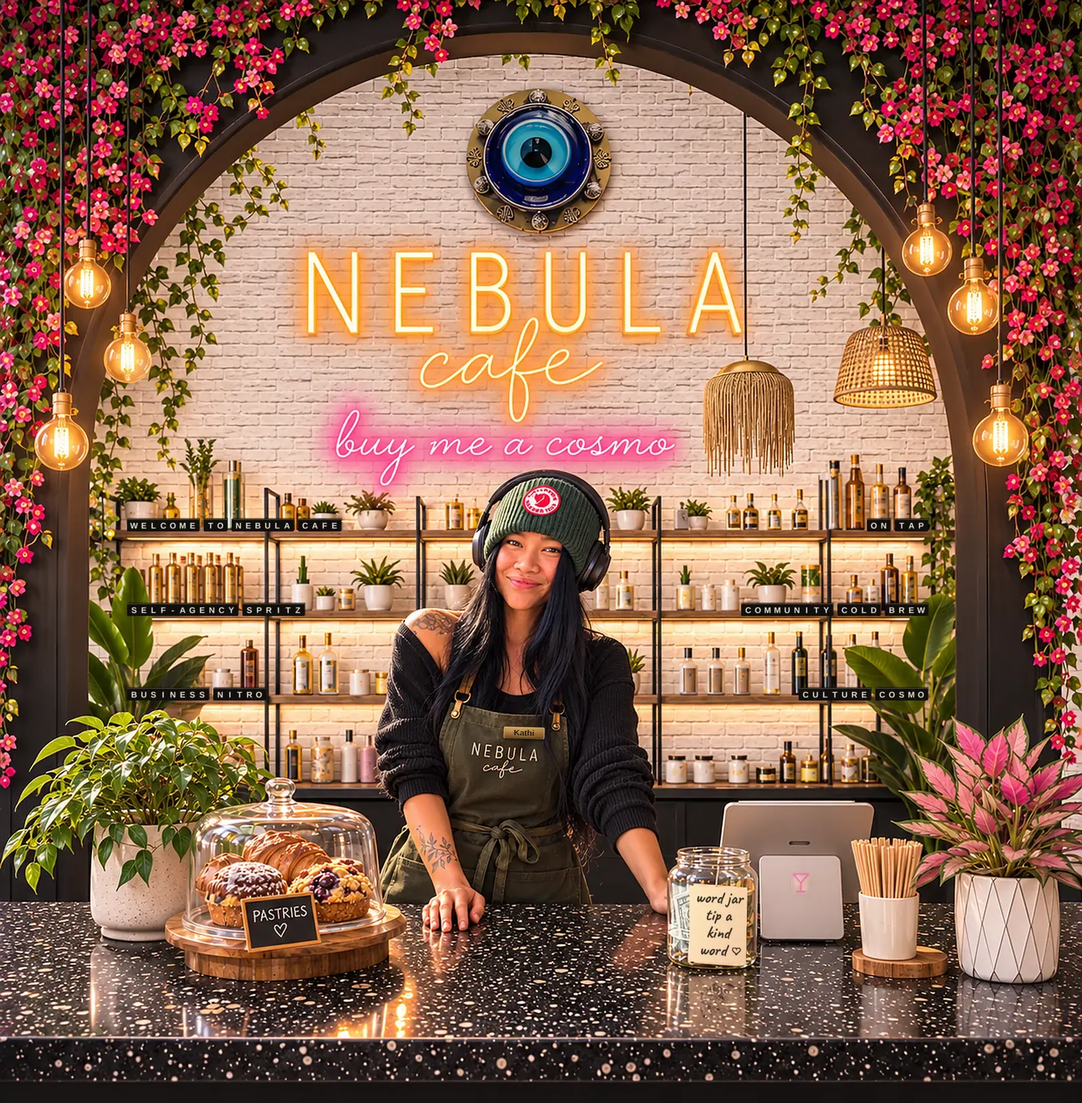
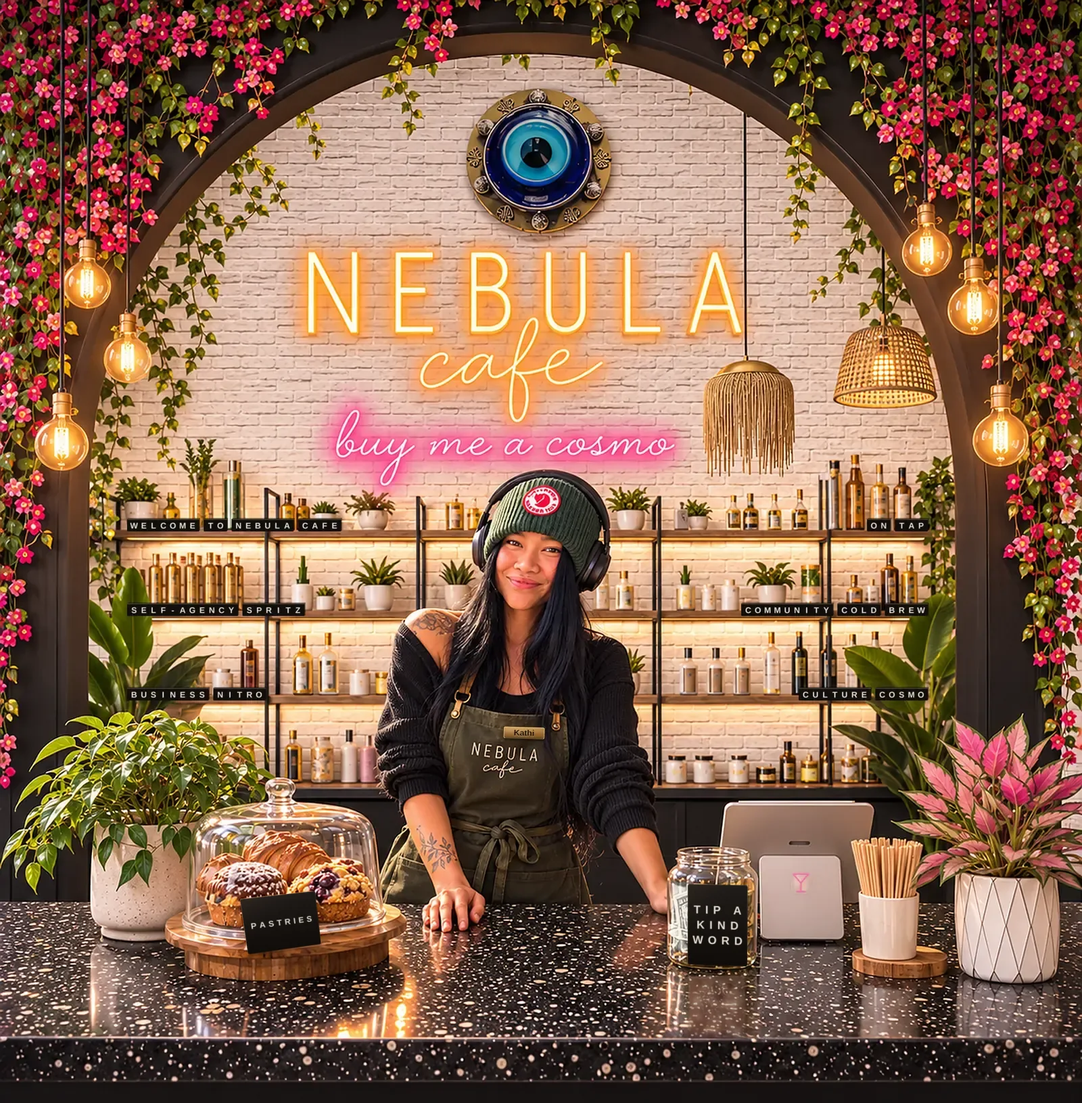
Nebula Cafe: black letter cards on the counter (PASTRIES, TIP A KIND WORD)
The chalkboard on the cake stand and the paper tag on the word jar now match the shelves' black letter cards. Repainted in all three café pictures (2400, 1600, phone) by the new tools/bar-cards.py; the jar tag keeps its old outline so the jar's strips still clip correctly, and the counter reflection was darkened to suit. Café picture description updated for screen readers.

Claude-Session: https://claude.ai/code/session_018yMsHqRgFK6Apb7SFisVkj

Changed region(s): [[0.625, 0.7975, 0.7188, 0.9509], [0.2188, 0.7975, 0.3125, 0.8896]]

diff --git a/post/cafe.html b/post/cafe.html
@@ -505,7 +505,7 @@ body.leaving::before { opacity: 1; }
       <picture>
         <source media="(max-aspect-ratio: 9/10)" data-srcset="../assets/img/post/room2/cafe-phone.webp">
         <source media="(max-width: 1500px)" data-srcset="../assets/img/post/room2/cafe-1600.webp">
-        <img data-src="../assets/img/post/room2/cafe-2400.webp" width="2486" height="2532" alt="Nebula Cafe through a black arch hung with pink flowering vines and Edison bulbs. Inside, white brick: an evil-eye charm, NEBULA cafe in amber neon, a pink neon that reads buy me a cosmo, iron and oak shelves of bottles and plants with letterboard words along their edges, and Kathi in a green beanie, headphones and a NEBULA cafe apron with a brass name tag that reads Kathi, leaning on the glittering black counter, smiling. On the counter: a potted plant, pastries under a glass dome, the word jar, a card reader with a pink cosmo glass on it, a cup of straws and a pink plant.">
+        <img data-src="../assets/img/post/room2/cafe-2400.webp" width="2486" height="2532" alt="Nebula Cafe through a black arch hung with pink flowering vines and Edison bulbs. Inside, white brick: an evil-eye charm, NEBULA cafe in amber neon, a pink neon that reads buy me a cosmo, iron and oak shelves of bottles and plants with letterboard words along their edges, and Kathi in a green beanie, headphones and a NEBULA cafe apron with a brass name tag that reads Kathi, leaning on the glittering black counter, smiling. On the counter: a potted plant, pastries under a glass dome behind a black letter card that reads PASTRIES, the word jar with a black card that reads TIP A KIND WORD, a card reader with a pink cosmo glass on it, a cup of straws and a pink plant.">
       </picture>
       <!-- the pink neon and the card reader: buttons (not links), so all they can do is open the Buy Me A Cosmo card -->
       <button class="spot c-neon" type="button" data-pop="cosmo" aria-label="Buy me a cosmo"></button>

diff --git a/tools/bar-cards.py b/tools/bar-cards.py
@@ -1,0 +1,182 @@
+"""
+bar-cards.py: the black letter cards on Nebula Cafe's counter.
+
+WHAT IT DOES
+  The shelves behind the bar carry black cards with white, widely spaced capital letters
+  (WELCOME TO NEBULA CAFE, SELF-AGENCY SPRITZ ...). This script gives the counter the same cards:
+    1. the chalkboard on the cake stand becomes a black card reading PASTRIES
+    2. the paper tag on the word jar becomes a black card reading TIP A / KIND / WORD
+  Each new card is painted exactly over the old sign's outline, so nothing behind the old sign
+  has to be invented, and the jar's strips (drawn by the page on top of the picture) still stop
+  at the tag's edge (see the "jar-inside" clip in post/cafe.html).
+
+HOW IT WORKS (the bones)
+  a. Draw each card flat and big, like a sheet of paper on a desk, 4x larger than it will end up.
+  b. Measure the four corners of the old sign in the picture (CARDS below, in pixels of cafe-2400).
+  c. Tilt and squeeze the flat card onto those four corners (a "perspective warp").
+  d. Shrink it to real size so the edges and letters come out smooth, and lay it over the picture.
+  e. The café ships in three sizes. cafe-1600 is cafe-2400 scaled down, and cafe-phone is the
+     middle 1200 pixels of cafe-2400 (from x 600), so the same patch is copied into each.
+
+RUN
+  python3 tools/bar-cards.py            (from the repo root; it rewrites the three cafe-*.webp files)
+"""
+import sys
+import numpy as np
+import cv2
+from PIL import Image, ImageDraw, ImageFont, ImageFilter
+
+ROOM = "assets/img/post/room2/"
+FONT = "/usr/share/fonts/truetype/liberation/LiberationSans-Bold.ttf"   # an Arial-style bold, like the shelf letters
+SS = 4                                    # draw 4x big, then shrink: smooth edges
+
+# Colours sampled from the shelf cards in the same picture: warm near-black card, warm off-white letters.
+CARD = (24, 20, 17)
+INK = (228, 220, 207)
+GLOW = (255, 196, 140)    # the colour of the bar's warm light, for the soft sheen on each card
+
+# Each card: its words (one entry per line), the letter spacing (as a share of the letter size; the shelves are
+# spaced wide), and the four corners of the old sign in cafe-2400, clockwise from top-left, measured off the
+# picture with a pixel grid. "stands" = the card stands on the cake stand, so it gets a thin shadow where it meets it.
+# "mirror" = the glossy counter reflects the card: the reflection is the card flipped upside down about the counter
+# line (y), running down to where the counter's front edge cuts it off (to), at about a fifth of its brightness.
+CARDS = [
+    {"name": "pastries", "lines": ["PASTRIES"], "track": 0.36, "stands": True,
+     "quad": [(551, 2064), (724, 2045), (738, 2167), (570, 2191)]},
+    {"name": "word jar tag", "lines": ["TIP A", "KIND", "WORD"], "track": 0.42, "stands": False,
+     "quad": [(1580, 2029), (1718, 2032), (1717, 2219), (1580, 2214)],
+     "mirror": {"y": 2228, "to": 2384, "strength": 0.24}},
+]
+
+
+def edge(a, b):
+    return float(np.hypot(b[0] - a[0], b[1] - a[1]))
+
+
+def flat_card(w, h, lines, track):
+    """Step a: the card lying flat, w x h pixels, letters centred. Returns an RGBA picture."""
+    yy, xx = np.mgrid[0:h, 0:w].astype(np.float32)
+    # the card's face: a gentle top-to-bottom shade (the bar lights hit the top a touch more) ...
+    ramp = (yy / h)[..., None]
+    face = (np.array(CARD) + 8) * (1 - ramp) + (np.array(CARD) - 7) * ramp
+    # ... plus a faint warm sheen across the top-left corner, as if the light glances off it
+    sheen = np.clip(1 - (xx / w * 0.8 + yy / h * 1.2), 0, 1)[..., None] ** 2 * 0.07
+    face = face * (1 - sheen) + np.array(GLOW) * sheen
+    # a hairline of light around the edge, brightest along the top, so the card reads as a solid object
+    r = int(min(w, h) * 0.035)                                   # small rounded corners, like the shelf tiles
+    rim = Image.new("L", (w, h), 0)
+    ImageDraw.Draw(rim).rounded_rectangle((0, 0, w - 1, h - 1), r, outline=255, width=max(2, SS))
+    rim = (np.array(rim, np.float32) / 255 * np.linspace(0.5, 0.1, h)[:, None])[..., None]
+    face = face * (1 - rim) + np.array((118, 102, 86)) * rim
+    card = Image.fromarray(np.clip(face, 0, 255).astype(np.uint8)).convert("RGBA")
+    mask = Image.new("L", (w, h), 0)
+    ImageDraw.Draw(mask).rounded_rectangle((0, 0, w - 1, h - 1), r, fill=255)
+    card.putalpha(mask)
+
+    # the words: as large as fits the widest line
+    pad = 0.08 * w
+    size = 400
+    while True:
+        f = ImageFont.truetype(FONT, size)
+        widths = [sum(f.getlength(c) for c in ln) + track * size * (len(ln) - 1) for ln in lines]
+        cap = f.getbbox("H")[3] - f.getbbox("H")[1]
+        block = cap * len(lines) + cap * 0.95 * (len(lines) - 1)
+        if max(widths) <= w - 2 * pad and block <= h * 0.6:
+            break
+        size -= 2
+    d = ImageDraw.Draw(card)
+    y = (h - block) / 2 - f.getbbox("H")[1]
+    for ln, lw in zip(lines, widths):
+        x = (w - lw) / 2
+        for c in ln:
+            d.text((x, y), c, font=f, fill=INK + (255,))
+            x += f.getlength(c) + track * size
+        y += cap * 1.95
+    return card
+
+
+def paint(img, card_spec):
+    """Steps b-d: warp the flat card onto its quad's four corners and lay it over img (an RGB numpy array)."""
+    q = np.array(card_spec["quad"], np.float32)
+    w = int(round(max(edge(q[0], q[1]), edge(q[3], q[2])) * SS))
+    h = int(round(max(edge(q[0], q[3]), edge(q[1], q[2])) * SS))
+    card = np.array(flat_card(w, h, card_spec["lines"], card_spec["track"])).astype(np.float32)
+    card[..., :3] *= card[..., 3:] / 255                          # colour times coverage, so the edges blend cleanly
+    # work inside a small box around the card, drawn 4x big
+    x0, y0 = np.floor(q.min(0)).astype(int) - 8
+    x1, y1 = np.ceil(q.max(0)).astype(int) + 8
+    dst = ((q - [x0, y0]) * SS).astype(np.float32)
+    src = np.array([(0, 0), (w, 0), (w, h), (0, h)], np.float32)
+    M = cv2.getPerspectiveTransform(src, dst)                     # the tilt-and-squeeze recipe
+    big = cv2.warpPerspective(card, M, ((x1 - x0) * SS, (y1 - y0) * SS), flags=cv2.INTER_LINEAR)
+    small = cv2.resize(big, (x1 - x0, y1 - y0), interpolation=cv2.INTER_AREA)   # step d: shrink = smooth
+    small = cv2.GaussianBlur(small, (0, 0), 0.5)                  # the photo is a touch soft; so is the card
+    rgb, a = small[..., :3], small[..., 3:] / 255.0
+    patch = img[y0:y1, x0:x1].astype(np.float32)
+    if card_spec["stands"]:
+        # a thin soft shadow where the card's bottom edge meets the cake stand
+        sh = np.zeros(patch.shape[:2], np.float32)
+        p3, p2 = (q[3] - [x0, y0] + [0, 2]), (q[2] - [x0, y0] + [0, 2])
+        cv2.line(sh, tuple(int(v) for v in p3), tuple(int(v) for v in p2), 1.0, 5)
+        sh = cv2.GaussianBlur(sh, (0, 0), 3)[..., None]
+        patch *= 1 - 0.45 * sh
+    # match the picture's fine grain so the card doesn't look pasted on
+    grain = np.random.default_rng(7).normal(0, 2.0, rgb.shape[:2])[..., None] * a
+    out = patch * (1 - a) + rgb + grain
+    img[y0:y1, x0:x1] = np.clip(out, 0, 255).astype(np.uint8)
+    cover = np.maximum(a[..., 0], 0)
+    if card_spec["stands"]:
+        cover = np.maximum(cover, sh[..., 0])                     # the shadow is a change too
+    return (x0, y0, x1, y1), cover
+
+
+def main(out_dir=ROOM):
+    big = np.array(Image.open(ROOM + "cafe-2400.webp").convert("RGB"))
+    mid = np.array(Image.open(ROOM + "cafe-1600.webp").convert("RGB"))
+    phone = np.array(Image.open(ROOM + "cafe-phone.webp").convert("RGB"))
+    before = big.copy()                                           # the picture as it was, for the reflections
+    cover = np.zeros(big.shape[:2], np.float32)                  # where the new cards sit (0 = untouched, 1 = card)
+    for c in CARDS:
+        (x0, y0, x1, y1), a = paint(big, c)
+        cover[y0:y1, x0:x1] = np.maximum(cover[y0:y1, x0:x1], a)
+        if "mirror" in c:
+            # the old sign's reflection is still in the counter. Take away a fifth of the old sign, flipped,
+            # and put back a fifth of the new card, flipped (blurred a little: the counter is glossy, not a mirror).
+            m = c["mirror"]
+            r0 = int(np.ceil(2 * m["y"] - y1))                    # first reflected row
+            rows = np.arange(max(r0, y1), m["to"])
+            src = np.clip(np.round(2 * m["y"] - rows).astype(int), y0, y1 - 1)   # the card row each one mirrors
+            change = (before[src, x0:x1].astype(np.float32) - big[src, x0:x1].astype(np.float32))
+            change *= cover[src, x0:x1][..., None]
+            change = cv2.GaussianBlur(change, (0, 0), 2.5)
+            reg = big[rows, x0:x1].astype(np.float32) - m["strength"] * change
+            # the old handwriting still ghosts through, so inside the reflection keep only the glitter:
+            # split the counter into its sparkles (small bright dots) and the glow underneath them,
+            # smooth the glow (which wipes the ghost strokes), then put the sparkles back on top.
+            glow = cv2.medianBlur(np.clip(reg, 0, 255).astype(np.uint8), 9).astype(np.float32)
+            sparkles = np.maximum(reg - glow, 0)                  # only what is brighter than the glow: the dots
+            where = cv2.GaussianBlur(cover[src, x0:x1], (0, 0), 3)[..., None]   # soft-edged: only under the card
+            reg = reg * (1 - where) + (cv2.GaussianBlur(glow, (0, 0), 5) + sparkles) * where
+            big[rows, x0:x1] = np.clip(reg, 0, 255).astype(np.uint8)
+            cover[rows, x0:x1] = np.maximum(cover[rows, x0:x1], where[..., 0])
+    cover = cv2.dilate(cover, np.ones((3, 3), np.uint8))        # one pixel of overlap, so no old edge peeks out
+
+    # step e: only the card areas change in the other two sizes; every other pixel stays as it was
+    def blend(old, new, a):
+        a = a[..., None]
+        return np.clip(old * (1 - a) + new * a, 0, 255).astype(np.uint8)
+    PHONE_X = 600                                                 # cafe-phone = cafe-2400 from x 600, 1200 wide
+    phone = blend(phone.astype(np.float32), big[:, PHONE_X:PHONE_X + phone.shape[1]].astype(np.float32),
+                  cover[:, PHONE_X:PHONE_X + phone.shape[1]])
+    size = (mid.shape[1], mid.shape[0])                           # cafe-1600 = cafe-2400 scaled down
+    mid = blend(mid.astype(np.float32), cv2.resize(big, size, interpolation=cv2.INTER_AREA).astype(np.float32),
+                cv2.resize(cover, size, interpolation=cv2.INTER_AREA))
+
+    # WebP quality 82 keeps each file about the size it was (the site must stay light on phones)
+    for name, arr in (("cafe-2400.webp", big), ("cafe-1600.webp", mid), ("cafe-phone.webp", phone)):
+        Image.fromarray(arr).save(out_dir + name, "WEBP", quality=82, method=6)
+        print("wrote", out_dir + name)
+
+
+if __name__ == "__main__":
+    main(sys.argv[1] if len(sys.argv) > 1 else ROOM)
